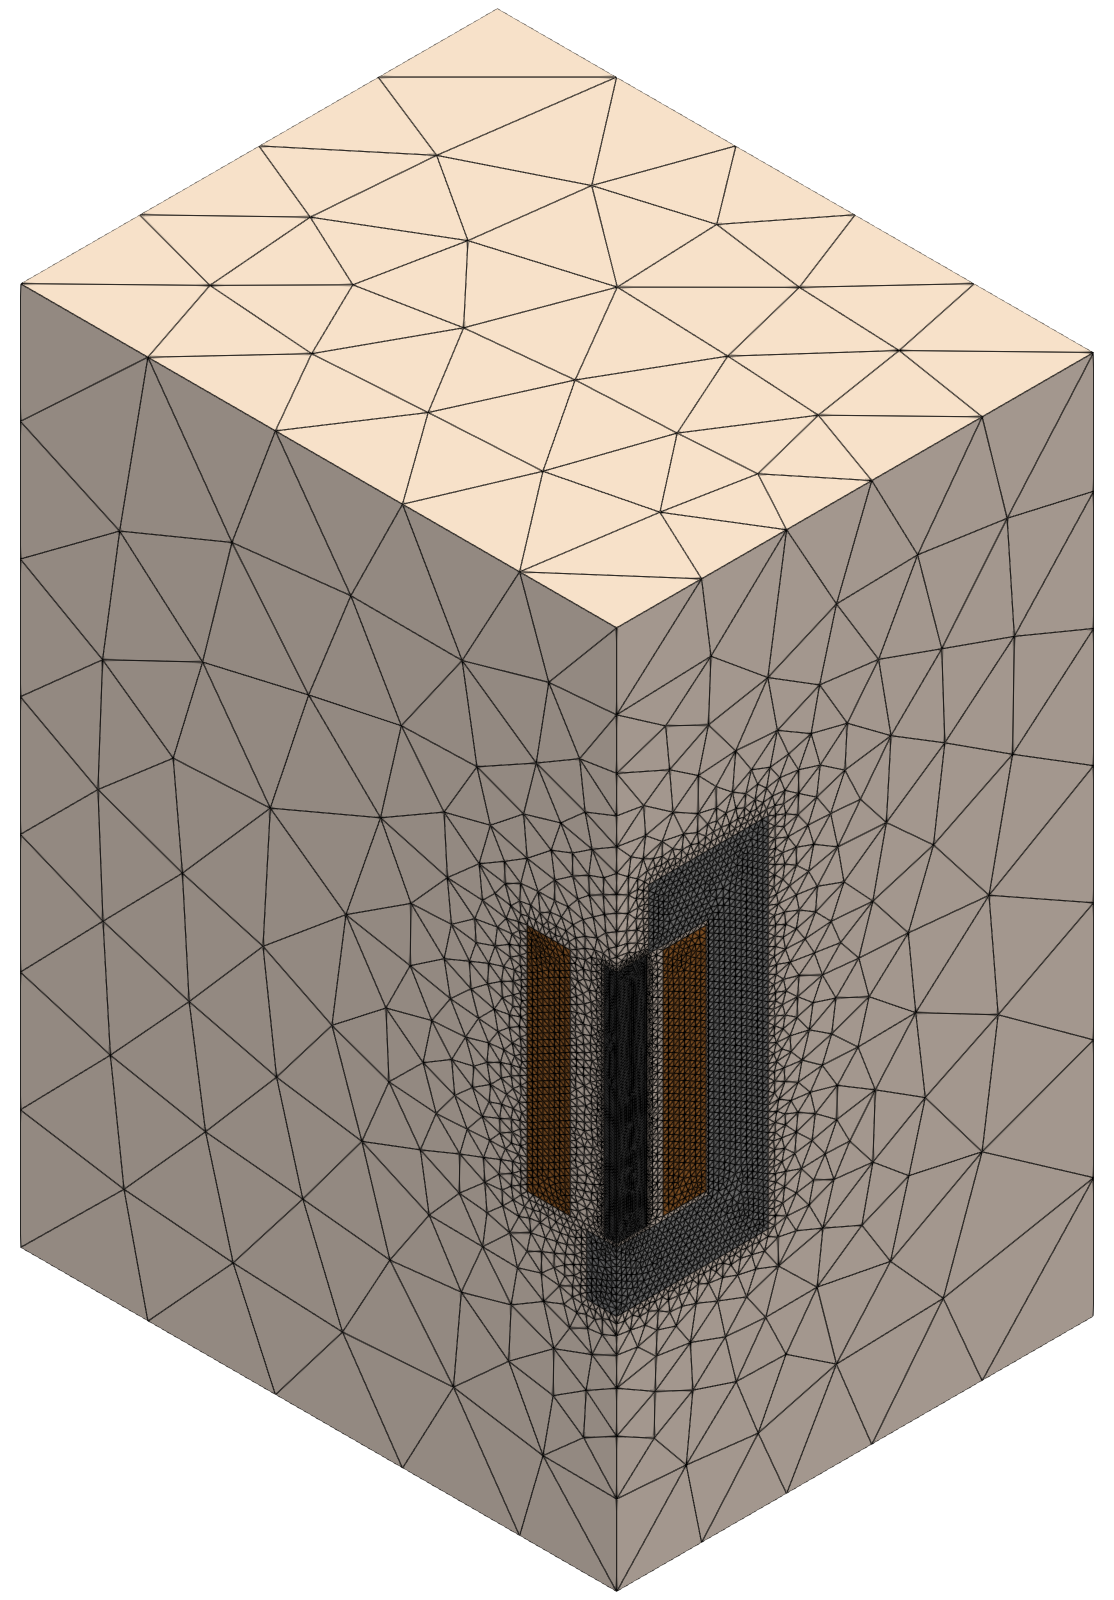
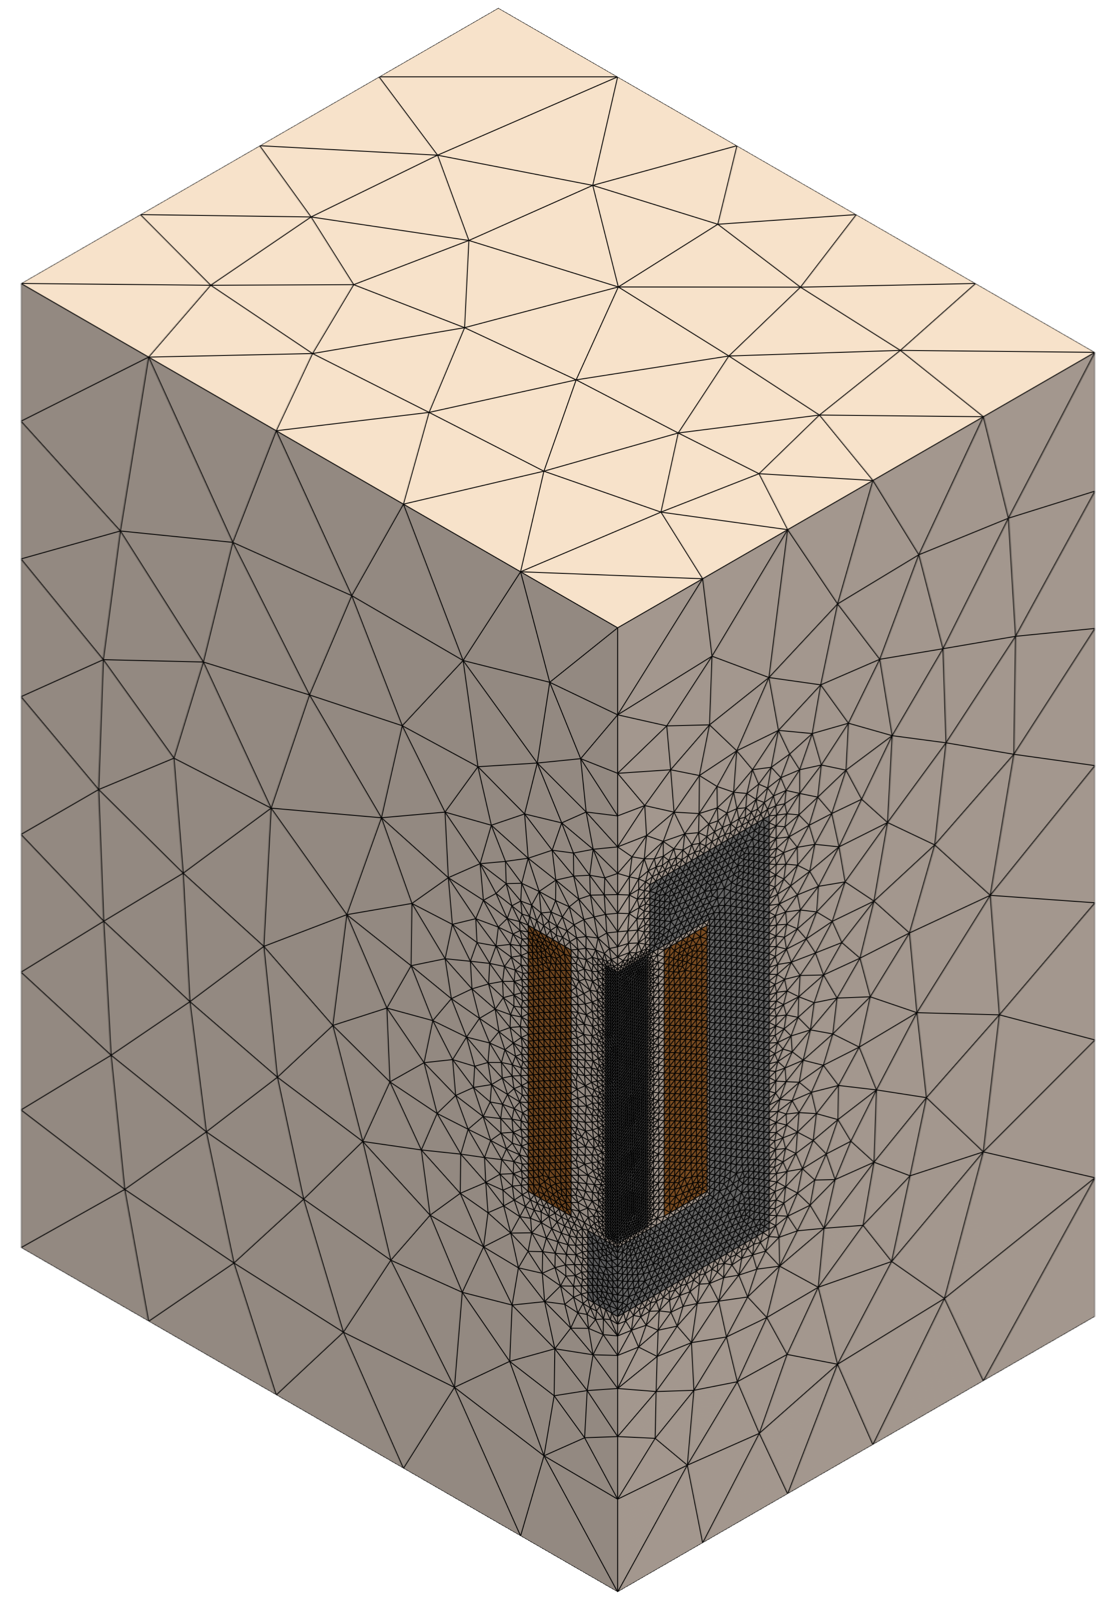
feat(SFW-132): PyVista

diff --git a/casekit/pyvista_scene.py b/casekit/pyvista_scene.py
@@ -1,0 +1,265 @@
+"""PyVista helpers for the scene and animation scripts of the cases.
+
+The PyVista counterpart of casekit.paraview_scene: the scripts run in the Python of the cases
+(`pip install pyvista`), render off screen and need no display. All scenes share the same look:
+a white background, the "coolwarm" color map, a color bar with fixed labels and a parallel
+projection.
+"""
+
+import json
+import math
+from pathlib import Path
+from typing import Optional, Sequence, Tuple
+
+import numpy as np
+import pyvista as pv
+from PIL import Image
+from vtkmodules.vtkCommonCore import vtkDoubleArray
+from vtkmodules.vtkIOXML import vtkXMLPartitionedDataSetCollectionReader
+from vtkmodules.vtkRenderingCore import vtkTextActor, vtkTextRenderer
+
+from casekit.images import trim
+
+
+class ScenePlotter(pv.Plotter):
+    """Plotter that keeps the titles of its vertical color bars, which save() places along the
+    bars once their size is known."""
+
+    def __init__(self, **kwargs):
+        super().__init__(**kwargs)
+        self.bar_titles = []
+
+
+def new_plotter(size: Tuple[int, int] = (1600, 1200)) -> ScenePlotter:
+    """Off-screen plotter with a white background and anti-aliasing."""
+    plotter = ScenePlotter(off_screen=True, window_size=list(size))
+    plotter.set_background("white")
+    plotter.enable_anti_aliasing("ssaa")
+    return plotter
+
+
+def read_output(case_dir: Path, index: int = 0) -> pv.MultiBlock:
+    """The fields that case.py exports to VisualizationOutput/: output `index` of
+    Output.vtpc.series, as one block per body named as in case.py.
+
+    The partitions of a body (one per MPI rank) are combined without merging their points, so
+    that fields that are discontinuous between the cells stay so.
+    """
+    output_dir = Path(case_dir) / "VisualizationOutput"
+    series = json.loads((output_dir / "Output.vtpc.series").read_text())
+    reader = vtkXMLPartitionedDataSetCollectionReader()
+    reader.SetFileName(str(output_dir / series["files"][index]["name"]))
+    reader.Update()
+    collection = reader.GetOutput()
+
+    data = pv.MultiBlock()
+    for i in range(collection.GetNumberOfPartitionedDataSets()):
+        name = collection.GetMetaData(i).Get(collection.NAME())
+        partitions = collection.GetPartitionedDataSet(i)
+        parts = [
+            pv.wrap(partitions.GetPartition(j)) for j in range(partitions.GetNumberOfPartitions())
+        ]
+        data.append(pv.MultiBlock(parts).combine(), name)
+    return data
+
+
+def read_scene_data(case_dir: Path):
+    """The extra input of the scenes that case.py writes to ValidationCase.scene_data_path."""
+    return np.load(Path(case_dir) / "VisualizationOutput" / "Scene_Data.npz")
+
+
+def bodies(data: pv.MultiBlock, names: Sequence[str]) -> pv.UnstructuredGrid:
+    """The bodies `names` of `data` as one mesh; raises if one does not exist, which would
+    silently leave it out of the image."""
+    missing = [name for name in names if name not in data.keys()]
+    if missing:
+        raise ValueError(f"no bodies {missing} in the output")
+    return pv.MultiBlock([data[name] for name in names]).combine()
+
+
+def show(
+    plotter: pv.Plotter,
+    mesh: pv.DataSet,
+    color: Optional[Sequence[float]] = None,
+    edges: bool = False,
+):
+    """Show `mesh` as a lit surface in a solid `color` (gray without one). Use color_by to show
+    a field instead."""
+    return plotter.add_mesh(
+        mesh,
+        color=color if color is not None else (0.8, 0.8, 0.8),
+        show_edges=edges,
+        edge_color="black",
+        line_width=2,
+        ambient=0.3,
+        diffuse=0.8,
+        show_scalar_bar=False,
+    )
+
+
+def color_by(
+    plotter: pv.Plotter,
+    mesh: pv.DataSet,
+    array: str,
+    title: str,
+    labels: Sequence[float],
+    label_format: str = "%.0f",
+    vertical: bool = False,
+    position: Tuple[float, float] = (0.3, 0.05),
+    length: float = 0.4,
+    thickness: float = 0.05,
+    title_size: int = 28,
+    label_size: int = 24,
+    component: Optional[int] = None,
+    edges: bool = False,
+):
+    """Show `mesh` colored by the point array `array` (the magnitude of a vector array, or its
+    `component`) with the coolwarm map and a color bar at `position` (fractions of the window).
+
+    The color range is the first to the last label. A vertical bar has its title turned along
+    it, right of the labels, as in ParaView. Returns the actor.
+    """
+    if array not in mesh.point_data:
+        raise ValueError(f"no point array {array!r} in the shown data")
+    width, height = (thickness, length) if vertical else (length, thickness)
+    actor = plotter.add_mesh(
+        mesh,
+        scalars=array,
+        preference="point",
+        component=component,
+        cmap="coolwarm",
+        clim=(labels[0], labels[-1]),
+        show_edges=edges,
+        edge_color="black",
+        line_width=2,
+        ambient=0.3,
+        diffuse=0.8,
+        scalar_bar_args=dict(
+            title=title,
+            vertical=vertical,
+            position_x=position[0],
+            position_y=position[1],
+            width=width,
+            height=height,
+            title_font_size=title_size,
+            label_font_size=label_size,
+            bold=True,
+            color="black",
+            fmt=label_format,
+        ),
+    )
+    custom_labels = vtkDoubleArray()
+    for label in labels:
+        custom_labels.InsertNextValue(label)
+    bar = plotter.scalar_bars[title]
+    bar.SetCustomLabels(custom_labels)
+    bar.SetUseCustomLabels(True)
+    bar.SetTextPad(6)
+    bar.SetUnconstrainedFontSize(True)
+    if vertical:
+        bar.SetTitle("")
+        plotter.bar_titles.append((bar, _bar_title(plotter, title, title_size)))
+    return actor
+
+
+def _bar_title(plotter: pv.Plotter, title: str, font_size: int) -> vtkTextActor:
+    actor = vtkTextActor()
+    actor.SetInput(title)
+    prop = actor.GetTextProperty()
+    prop.SetFontSize(font_size)
+    prop.SetBold(True)
+    prop.SetColor(0.0, 0.0, 0.0)
+    prop.SetOrientation(90.0)
+    prop.SetJustificationToCentered()
+    prop.SetVerticalJustificationToTop()
+    plotter.add_actor(actor)
+    return actor
+
+
+def _place_bar_titles(plotter: ScenePlotter):
+    """Put the titles of the vertical color bars right of the widest label of their bar."""
+    if not plotter.bar_titles:
+        return
+    plotter.render_window.Render()
+    text_renderer = vtkTextRenderer()
+    dpi = plotter.render_window.GetDPI()
+    for bar, title in plotter.bar_titles:
+        rect = [0] * 4
+        bar.GetScalarBarRect(rect, plotter.renderer)
+        label_width = 0
+        labels = bar.GetCustomLabels()
+        for i in range(labels.GetNumberOfTuples()):
+            box = [0] * 4
+            text = bar.GetLabelFormat() % labels.GetValue(i)
+            text_renderer.GetBoundingBox(bar.GetLabelTextProperty(), text, box, dpi)
+            label_width = max(label_width, box[1] - box[0])
+        gap = bar.GetTextPad() + label_width + title.GetTextProperty().GetFontSize() // 2
+        title.SetDisplayPosition(rect[0] + rect[2] + gap, rect[1] + rect[3] // 2)
+
+
+def set_camera(
+    plotter: pv.Plotter,
+    direction: Sequence[float],
+    up: Sequence[float],
+    focal_point: Optional[Sequence[float]] = None,
+    parallel_scale: Optional[float] = None,
+    bounds: Optional[Sequence[float]] = None,
+    shift_up: float = 0.0,
+):
+    """Look from `direction` (toward the viewer) with `up` up on the screen.
+
+    The projection is parallel, so vertical edges stay vertical. The camera looks at
+    `focal_point` with the visible half height `parallel_scale` [model units], or is fitted to
+    `bounds` (then centered on them). `shift_up` [model units] then moves the picture up on the
+    screen, e.g. to make room for a color bar below it.
+    """
+    if bounds is None and (focal_point is None or parallel_scale is None):
+        raise ValueError("set_camera needs focal_point and parallel_scale, or bounds")
+    if bounds is not None and (focal_point is not None or parallel_scale is not None):
+        raise ValueError("set_camera fits bounds itself: no focal_point or parallel_scale")
+
+    # Only the clipping depends on the distance in a parallel projection: keep the camera well
+    # outside the model.
+    focal_point = focal_point or [0.0, 0.0, 0.0]
+    distance = 100.0 * parallel_scale if parallel_scale is not None else 1.0
+    norm = math.sqrt(sum(d * d for d in direction))
+    camera = plotter.camera
+    camera.focal_point = list(focal_point)
+    camera.position = [f + distance * d / norm for f, d in zip(focal_point, direction)]
+    camera.up = list(up)
+    plotter.enable_parallel_projection()
+    if parallel_scale is not None:
+        camera.parallel_scale = parallel_scale
+        plotter.reset_camera_clipping_range()
+    else:
+        plotter.reset_camera(bounds=list(bounds))
+    if shift_up:
+        shift = [-shift_up * u for u in camera.up]
+        camera.focal_point = [f + d for f, d in zip(camera.focal_point, shift)]
+        camera.position = [p + d for p, d in zip(camera.position, shift)]
+
+
+def add_text(plotter: pv.Plotter, text: str, position: Tuple[float, float], font_size=40):
+    """Bold black text with its lower left corner at `position` (fractions of the window)."""
+    actor = plotter.add_text(
+        text, position=position, font_size=font_size, color="black", viewport=True
+    )
+    actor.GetTextProperty().SetBold(True)
+    return actor
+
+
+def phase_field(mesh: pv.DataSet, field: str, phase_deg: float) -> np.ndarray:
+    """Re(F e^{j phase}) = F_r cos(phase) - F_i sin(phase) of a complex point field."""
+    phase = math.radians(phase_deg)
+    return mesh.point_data[f"{field}-Real"] * math.cos(phase) - mesh.point_data[
+        f"{field}-Imag"
+    ] * math.sin(phase)
+
+
+def save(plotter: pv.Plotter, path: Path, crop: bool = True):
+    """Render `plotter` to `path` and, with `crop`, crop the white margins. The plotter stays
+    open for further images."""
+    Path(path).parent.mkdir(parents=True, exist_ok=True)
+    _place_bar_titles(plotter)
+    image = Image.fromarray(plotter.screenshot(return_img=True))
+    (trim(image) if crop else image).save(path)

diff --git a/Electromagnetics/Compumag-Team20-3D-Static-Force-Problem/create_scene.py b/Electromagnetics/Compumag-Team20-3D-Static-Force-Problem/create_scene.py
@@ -1,7 +1,7 @@
 """Render data/Vis_MagneticFluxDensity.png and data/Mesh.png from the output of case.py.
 
-Run with `pvpython create_scene.py` after the case. Both images use the isometric view along
-(-1, -1, 1) onto the symmetry planes x = 0 and y = 0, with z up, as data/Geometry.png.
+Run with `python create_scene.py` after the case (needs PyVista). Both images use the isometric
+view along (-1, -1, 1) onto the symmetry planes x = 0 and y = 0, with z up, as data/Geometry.png.
 """
 
 import sys
@@ -10,10 +10,10 @@ from pathlib import Path
 case_dir = Path(__file__).resolve().parent
 sys.path.insert(0, str(case_dir.parents[1]))
 
-from casekit.paraview_scene import (
-    blocks,
+from casekit.pyvista_scene import (
+    bodies,
     color_by,
-    new_view,
+    new_plotter,
     read_output,
     save,
     set_camera,
@@ -22,38 +22,30 @@ from casekit.paraview_scene import (
 
 data = read_output(case_dir)
 
-
-def view_onto(view, source):
-    source.UpdatePipeline()
-    set_camera(view, (-1, -1, 1), (0, 0, 1), bounds=source.GetDataInformation().GetBounds())
-
-
 # Magnetic flux density in the yoke, the pole and the coil.
-view = new_view((1900, 1600))
-parts = blocks(data, ["Yoke", "Pole", "Coil"])
-display = show(parts, view)
+plotter = new_plotter((1900, 1600))
+parts = bodies(data, ["Yoke", "Pole", "Coil"])
 color_by(
-    display,
-    view,
+    plotter,
+    parts,
     "Magnetic Flux Density",
     "Magnetic Flux Density [T]",
     [0.0, 0.5, 1.0, 1.5, 2.0, 2.5],
     "%.1f",
-    orientation="Vertical",
+    vertical=True,
     position=(0.78, 0.3),
-    component="Magnitude",
 )
-view_onto(view, parts)
-save(view, case_dir / "data" / "Vis_MagneticFluxDensity.png")
+set_camera(plotter, (-1, -1, 1), (0, 0, 1), bounds=parts.bounds)
+save(plotter, case_dir / "data" / "Vis_MagneticFluxDensity.png")
 
 # Mesh of all bodies.
-view = new_view((1600, 1600))
+plotter = new_plotter((1600, 1600))
 for name, color in [
     ("Air", (0.96, 0.89, 0.83)),
     ("Yoke", (0.6, 0.6, 0.6)),
     ("Pole", (0.6, 0.6, 0.6)),
     ("Coil", (0.72, 0.45, 0.2)),
 ]:
-    show(blocks(data, [name]), view, color, edges=True)
-view_onto(view, data)
-save(view, case_dir / "data" / "Mesh.png")
+    show(plotter, bodies(data, [name]), color, edges=True)
+set_camera(plotter, (-1, -1, 1), (0, 0, 1), bounds=data.bounds)
+save(plotter, case_dir / "data" / "Mesh.png")

diff --git a/Electromagnetics/Compumag-Team20-3D-Static-Force-Problem/README.md b/Electromagnetics/Compumag-Team20-3D-Static-Force-Problem/README.md
@@ -119,8 +119,8 @@ of the force versus the coil current.
 
 Figures 1 and 2 and the scene of Figure 5 share the isometric view onto the symmetry planes. Figure 1
 is rendered from `geometry.step` with the netgen viewer by [create_geometry_image.py](create_geometry_image.py);
-Figures 2 and 5 are rendered with ParaView by [create_scene.py](create_scene.py) (run with
-`pvpython create_scene.py` after the case).
+Figures 2 and 5 are rendered with [PyVista](https://pyvista.org/) by [create_scene.py](create_scene.py)
+(run with `python create_scene.py` after the case).
 
 ## Results
 
